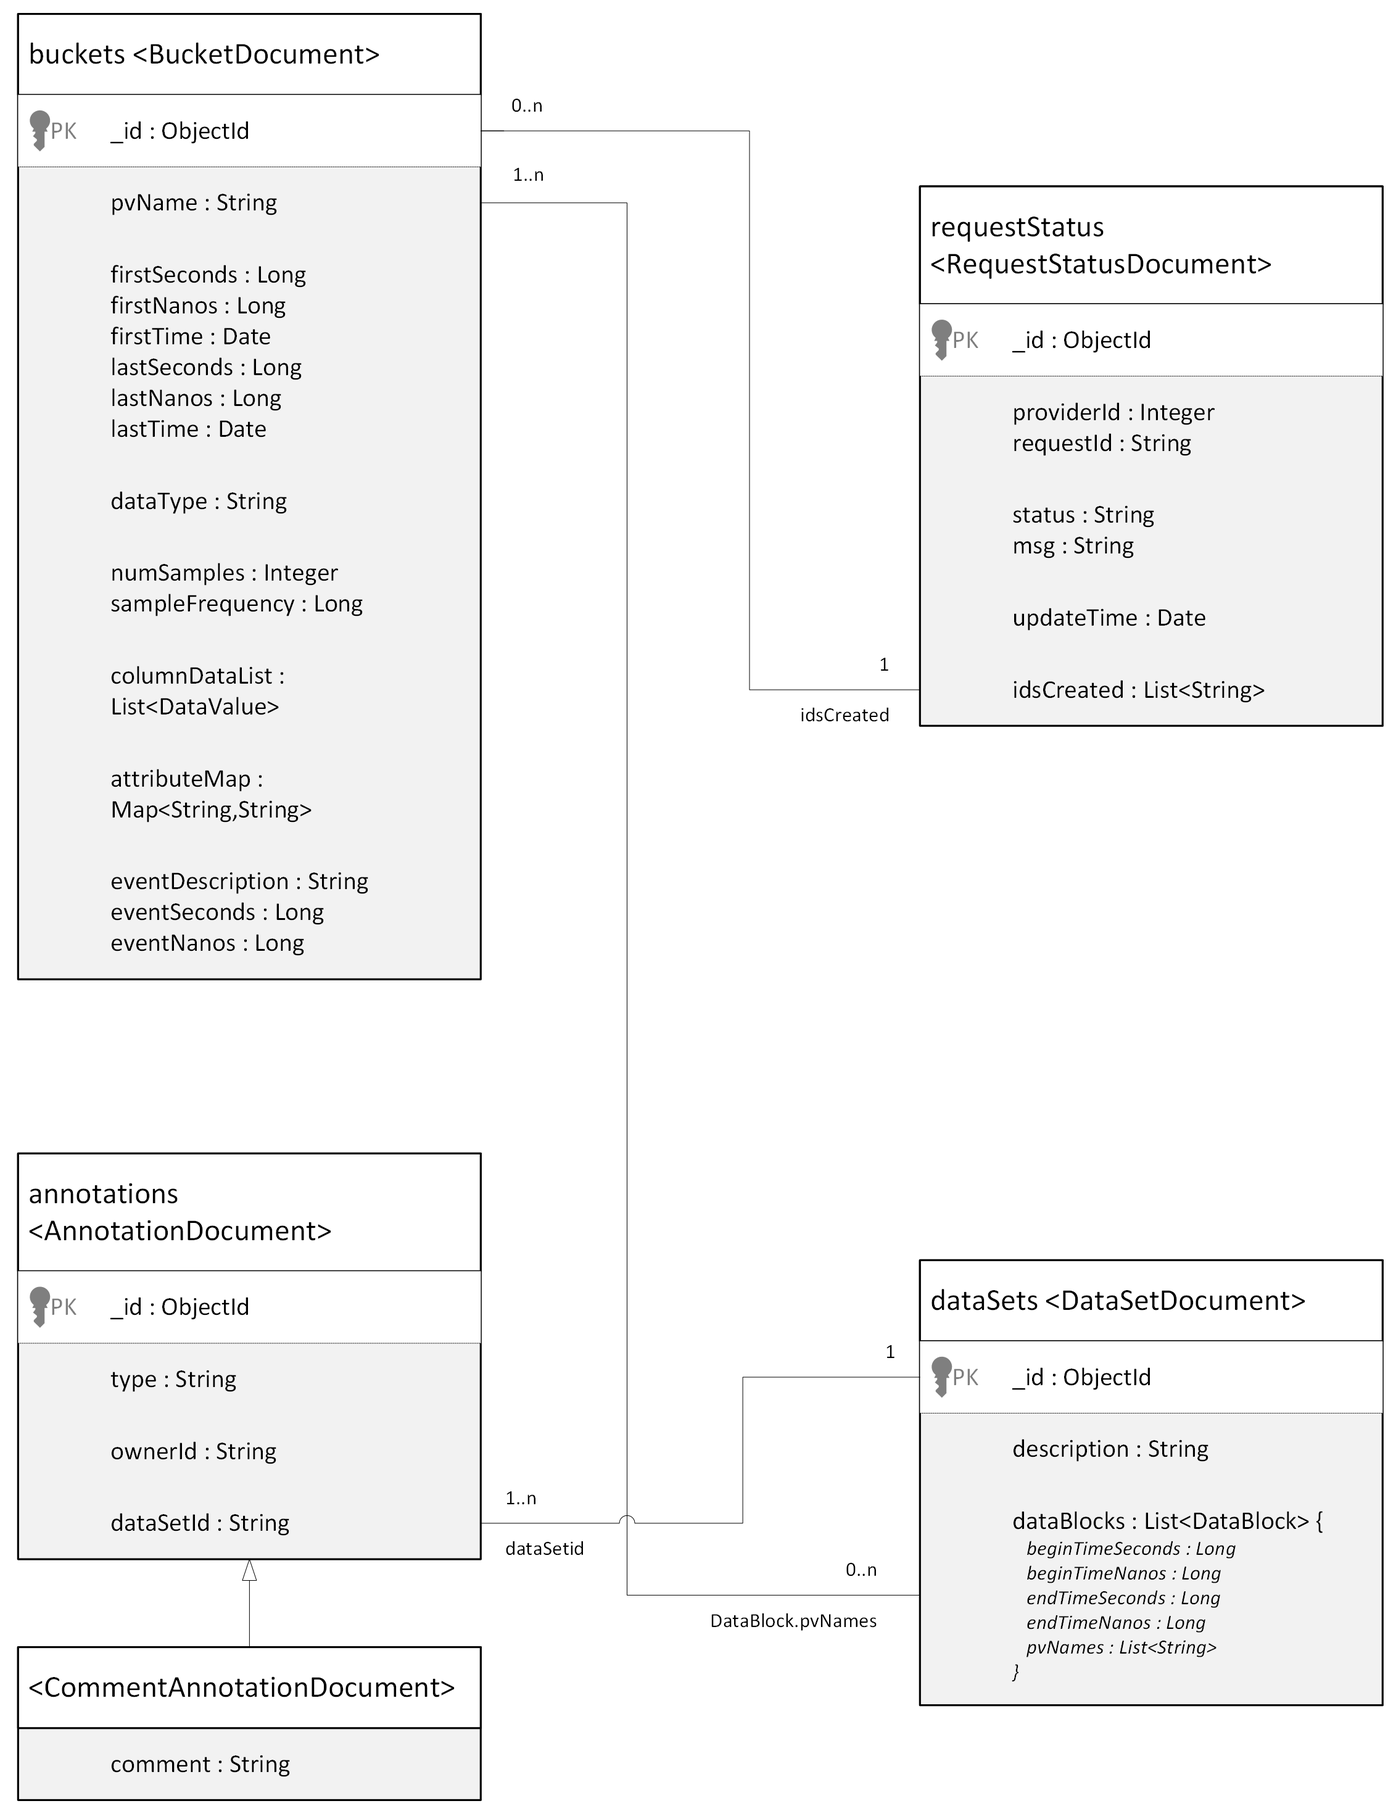
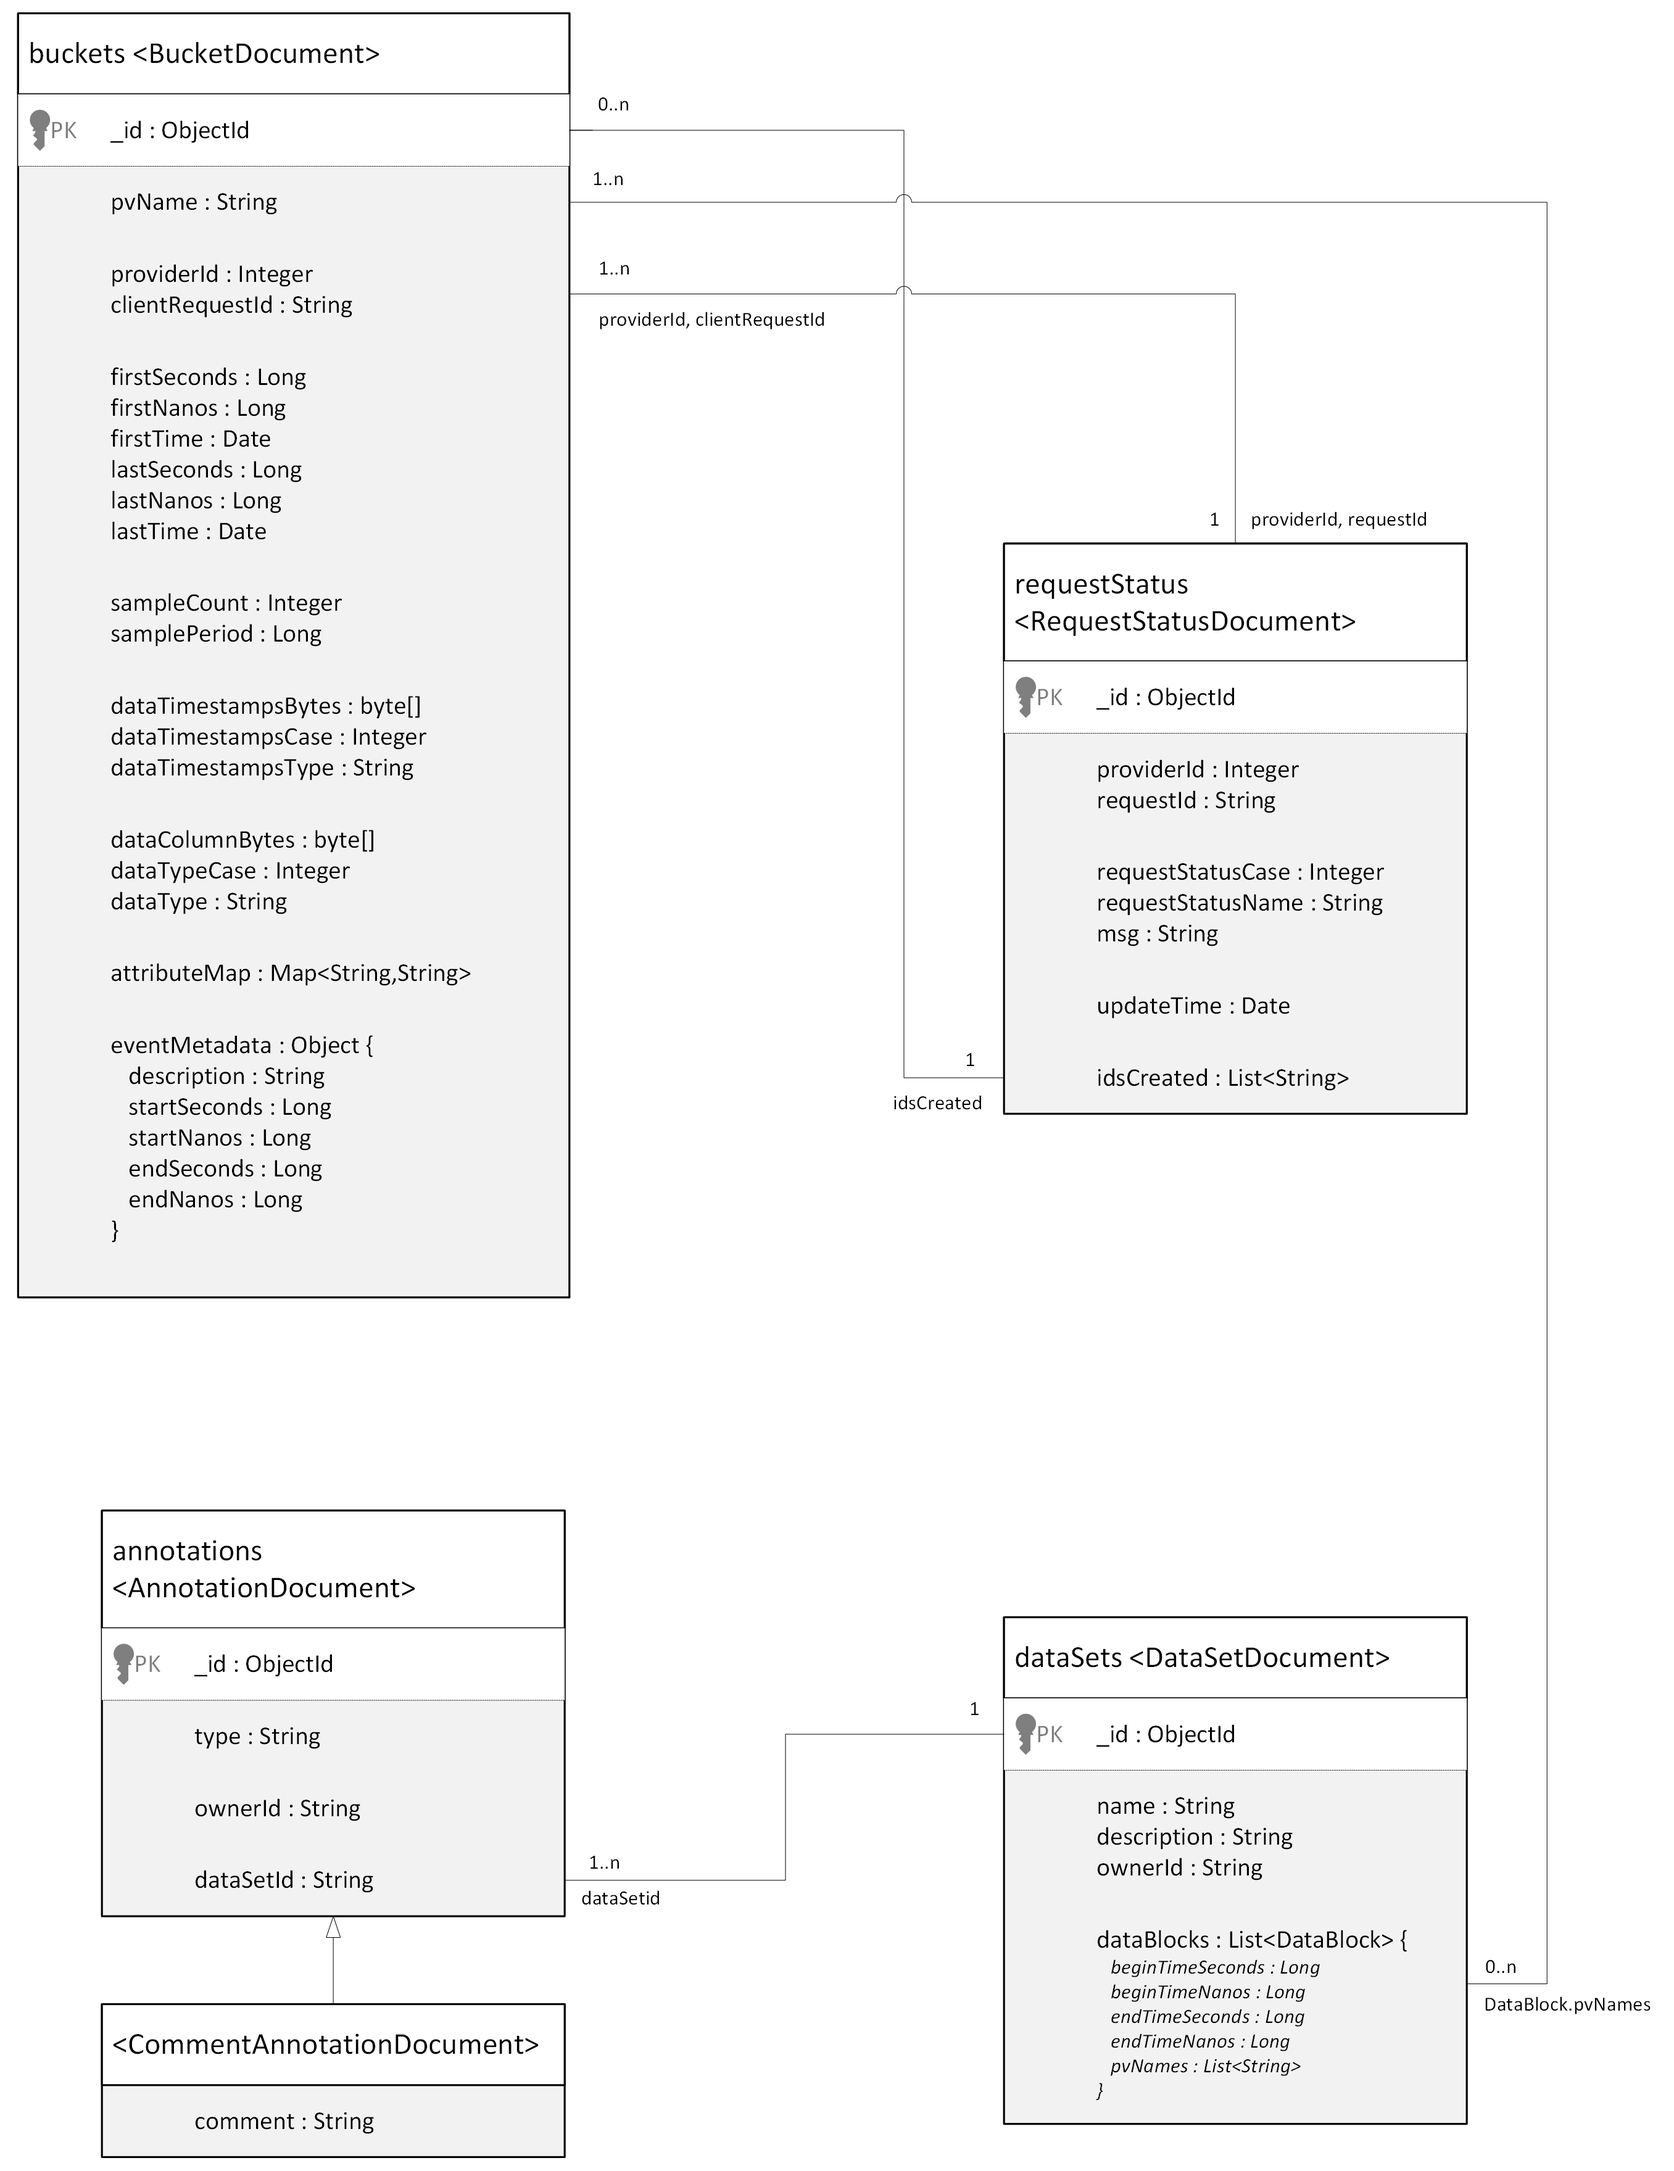
data-platform #27: Update database schema diagrams and section 3.2 of dp-tech document

diff --git a/doc/documents/dp/dp-tech.md b/doc/documents/dp/dp-tech.md
@@ -1305,15 +1305,16 @@ The domain of the Query Service methods is the "buckets" collection.  A time-ser
 
 Each bucket document includes the following fields:
 
-
-
 * "_id" - unique identifier for the bucket
 * "pvName" - name of the corresponding PV
+* "providerId", "clientRequestId" - these fields are specified in the "IngestDataRequest" that created the bucket, used to find the corresponding requestStatus document with the disposition of the request
 * "firstSeconds" / "firstNanos" and "lastSeconds" / "lastNanos" - time range for bucket with first and last time (with corresponding full Java Date fields "firstTime" and "lastTime" for convenience)
-* "dataType" - string indicating the datatype contained used for measurements in the bucket
-* "numSamples" - specifies number of measurements contained in the bucket's columnDataList
-* "sampleFrequency" - specifies the sample period for the bucket in nanoseconds
-* "columnDataList" - contains the list of measurements for the bucket
+* "sampleCount" - specifies number of measurements contained in the "DataColumn" serialized to the bucket's dataColumnBytes field
+* "samplePeriod" - specifies the sample period for the bucket in nanoseconds (zero if the "DataTimestamps" object for the bucket is a "TimestampsList", otherwise equal to the bucket's "SamplingClock.periodNanos")
+* "dataTimestampsBytes" - contains serialized protobuf "DataTimestamps" object specifying the timestamps for the data vector values, using either a "SamplingClock" or "TimestampsList"
+* "dataTimestampsCase" / "dataTimestampsType" - "DataTimestamps.value" enum case and name for the serialized object contained in dataTimestampsBytes (e.g., either a "SamplingClock" or "TimestampsList")
+* "dataColumnBytes" - contains serialized protobuf "DataColumn" containing vector of values for bucket
+* "dataTypeCase" / "dataType" - "DataValue.value" enum case and name for the first "DataValue" contained in the "DataColumn" for the bucket 
 * "attributeMap" - contains a list of key / value metadata pairs added to the bucket at ingestion
 * "eventDescription" / "eventSeconds" / "eventNanos" - metadata description and start time for the event associated with this bucket at ingestion
 
@@ -1328,11 +1329,9 @@ Given the asynchronous nature of the Ingestion Service, it is anticipated that a
 
 Each request status document contains the following fields:
 
-
-
 * "_id" - unique identifier for the request status
 * "providerId" / "requestId" - these fields contain the corresponding values from the ingestion request and can be used by the client to match request status to the request
-* "status" - string indicating whether the operation succeeded or failed
+* "requestStatusCase" / "requestStatusName" - IngestionRequestStatus enum case and name indicating the status for the request (e.g., rejected, error, success)
 * "msg" - provides additional details for failed requests
 * "updateTime" - specifies time status was updated
 * "idsCreated" - contains a list of id strings for the buckets by a successful request
@@ -1347,7 +1346,9 @@ The Annotation Service manages the "dataSets" collection.  The API method "creat
 Each dataset document contains the following fields:
 
 * "_id" - unique identifier for the dataset
+* "name" - name of dataset
 * "description" - a brief textual description of the dataset
+* "ownerId"  - owner of the dataset
 * "dataBlocks" - contains a list of "DataBlock" objects, each of which contains a time range specified by "beginTimeSeconds" / "beginTimeNanos" / "endTimeSeconds" / "endTimeNanos" and a list of PV names
 
 The time range and PV names specified in a "DataBlock" correspond to the domain of the "buckets" collection, and can therefore be used directly in the parameters for any of the Query Service time-series and metadata query methods.
